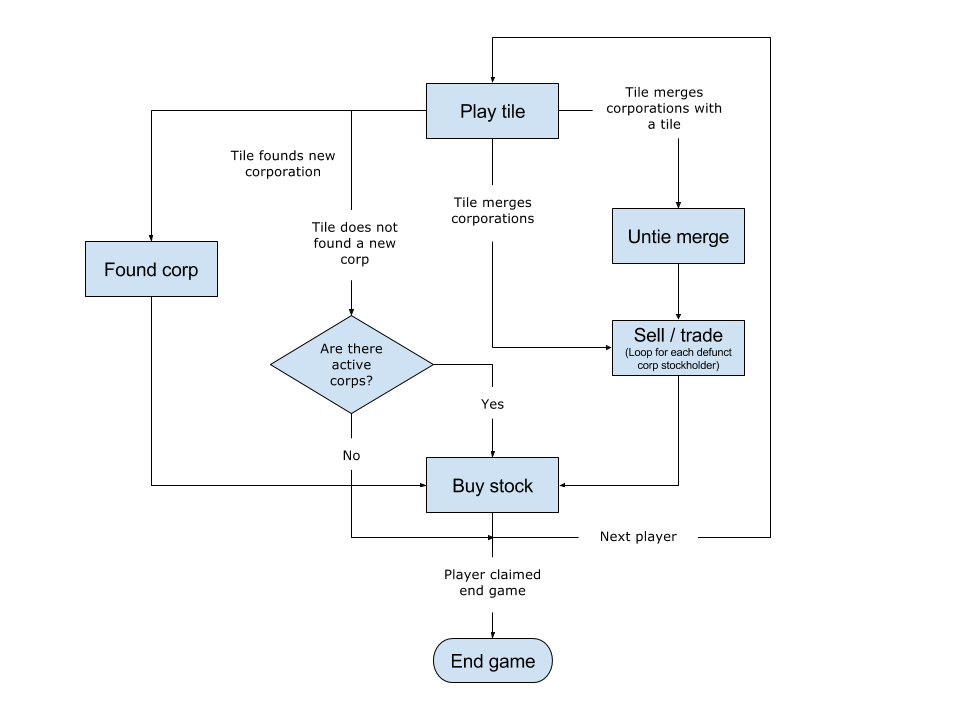
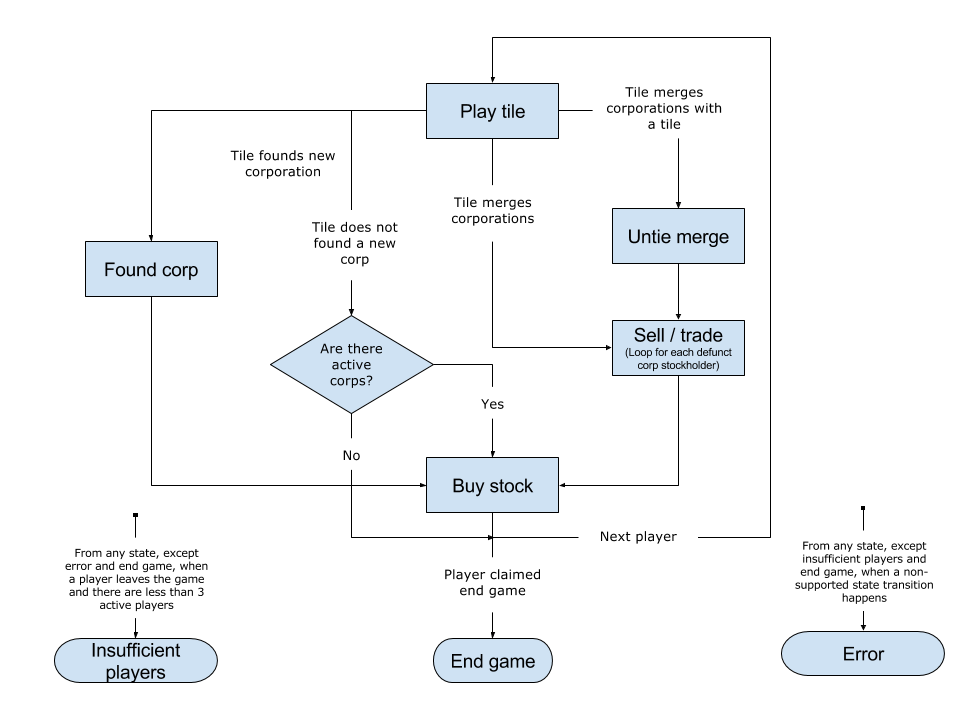
Added new state insufficient players

Changed region(s): [[0.8125, 0.7333, 1.0, 0.9472], [0.0625, 0.7639, 0.2188, 0.8556], [0.0312, 0.8861, 0.25, 0.9472]]

diff --git a/game.go b/game.go
@@ -332,7 +332,7 @@ func (g *Game) putUnincorporatedTile(tl interfaces.Tile) error {
 		g.state = g.state.ToBuyStock()
 		return nil
 	}
-	return g.nextRound()
+	return g.nextPlayer()
 }
 
 func (g *Game) existActiveCorporations() bool {
@@ -366,7 +366,7 @@ func (g *Game) FoundCorporation(corp interfaces.Corporation) error {
 	return nil
 }
 
-// Receive a free stock share from a rencently found corporation, if it has
+// Receive a free stock share from a recently founded corporation, if it has
 // remaining shares available
 // TODO this should trigger an event warning that no founder stock share will be given
 // of the founded corporation has no stock shares left
@@ -383,21 +383,6 @@ func (g *Game) growCorporation(corp interfaces.Corporation, tiles []interfaces.T
 	corp.Grow(len(tiles))
 }
 
-// Increases the number which specifies the current player.
-// Turn passes only to an active player.
-func (g *Game) nextPlayer() {
-	for {
-		g.currentPlayerNumber++
-		if g.currentPlayerNumber == len(g.players) {
-			g.currentPlayerNumber = 0
-			g.round++
-		}
-		if g.players[g.currentPlayerNumber].Active() {
-			return
-		}
-	}
-}
-
 // DeactivatePlayer gets the received player and marks it as inactive
 // because the player has left the game. All player's
 // assets are returned to its respective origin sets. If the deactivated player was in
@@ -412,12 +397,25 @@ func (g *Game) DeactivatePlayer(pl interfaces.Player) {
 			pl.RemoveShares(corp, pl.Shares(corp))
 		}
 	}
+	if len(g.activePlayers()) < 3 {
+		g.state = g.state.ToInsufficientPlayers()
+	}
 	for i := range g.players {
 		if g.players[i] == pl && g.currentPlayerNumber == i {
 			g.nextPlayer()
 			return
 		}
 	}
+}
+
+func (g *Game) activePlayers() []interfaces.Player {
+	var activePlayers []interfaces.Player
+	for i := range g.players {
+		if g.players[i].Active() {
+			activePlayers = append(activePlayers, g.players[i])
+		}
+	}
+	return activePlayers
 }
 
 // Round returns the current round number
@@ -445,7 +443,7 @@ func (g *Game) GameStateName() string {
 	return g.state.Name()
 }
 
-func (g *Game) nextRound() error {
+func (g *Game) nextPlayer() error {
 	if g.isLastRound {
 		g.state = g.state.ToEndGame()
 		return g.finish()
@@ -456,9 +454,23 @@ func (g *Game) nextRound() error {
 	if g.state.Name() != interfaces.PlayTileStateName {
 		g.state = g.state.ToPlayTile()
 	}
-	g.nextPlayer()
-
+	g.updateCurrentPlayerNumber()
 	return nil
+}
+
+// Increases the number which specifies the current player.
+// Turn passes only to an active player.
+func (g *Game) updateCurrentPlayerNumber() {
+	for {
+		g.currentPlayerNumber++
+		if g.currentPlayerNumber == len(g.players) {
+			g.currentPlayerNumber = 0
+			g.round++
+		}
+		if g.players[g.currentPlayerNumber].Active() {
+			return
+		}
+	}
 }
 
 // IsLastRound returns if the current round will be the last one or not

diff --git a/interfaces/fsm.go b/interfaces/fsm.go
@@ -9,15 +9,17 @@ type State interface {
 	ToSellTrade() State
 	ToBuyStock() State
 	ToEndGame() State
+	ToInsufficientPlayers() State
 }
 
 // State names
 const (
-	ErrorStateName      = "Error"
-	EndGameStateName    = "EndGame"
-	BuyStockStateName   = "BuyStock"
-	FoundCorpStateName  = "FoundCorp"
-	PlayTileStateName   = "PlayTile"
-	SellTradeStateName  = "SellTrade"
-	UntieMergeStateName = "UntieMerge"
+	ErrorStateName               = "Error"
+	EndGameStateName             = "EndGame"
+	BuyStockStateName            = "BuyStock"
+	FoundCorpStateName           = "FoundCorp"
+	PlayTileStateName            = "PlayTile"
+	SellTradeStateName           = "SellTrade"
+	UntieMergeStateName          = "UntieMerge"
+	InsufficientPlayersStateName = "InsufficientPlayers"
 )

diff --git a/fsm/untie_merge_test.go b/fsm/untie_merge_test.go
@@ -1,8 +1,9 @@
 package fsm
 
 import (
-	"github.com/svera/acquire/interfaces"
 	"testing"
+
+	"github.com/svera/acquire/interfaces"
 )
 
 func TestUntieMergeToPlayTile(t *testing.T) {
@@ -30,5 +31,13 @@ func TestUntieMergeToBuyStock(t *testing.T) {
 	state := &UntieMerge{}
 	if state.ToBuyStock().Name() != interfaces.ErrorStateName {
 		t.Errorf("Transition from UntieMerge to BuyStock must return not be valid")
+	}
+}
+
+func TestUntieMergeToInsufficientPlayers(t *testing.T) {
+	state := &UntieMerge{}
+
+	if state.ToInsufficientPlayers().Name() != interfaces.InsufficientPlayersStateName {
+		t.Errorf("Transition from UntieMerge to InsufficientPlayers must be valid")
 	}
 }

diff --git a/fsm/found_corp_test.go b/fsm/found_corp_test.go
@@ -1,8 +1,9 @@
 package fsm
 
 import (
-	"github.com/svera/acquire/interfaces"
 	"testing"
+
+	"github.com/svera/acquire/interfaces"
 )
 
 func TestFoundCorpToPlayTile(t *testing.T) {
@@ -30,5 +31,13 @@ func TestFoundCorpToBuyStock(t *testing.T) {
 	state := &FoundCorp{}
 	if state.ToBuyStock().Name() != interfaces.BuyStockStateName {
 		t.Errorf("Transition from FoundCorp to BuyStock must be valid")
+	}
+}
+
+func TestFoundCorpToInsufficientPlayers(t *testing.T) {
+	state := &FoundCorp{}
+
+	if state.ToInsufficientPlayers().Name() != interfaces.InsufficientPlayersStateName {
+		t.Errorf("Transition from FoundCorp to InsufficientPlayers must be valid")
 	}
 }

diff --git a/fsm/sell_trade_test.go b/fsm/sell_trade_test.go
@@ -1,8 +1,9 @@
 package fsm
 
 import (
-	"github.com/svera/acquire/interfaces"
 	"testing"
+
+	"github.com/svera/acquire/interfaces"
 )
 
 func TestSellTradeToPlayTile(t *testing.T) {
@@ -30,5 +31,13 @@ func TestSellTradeToBuyStock(t *testing.T) {
 	state := &SellTrade{}
 	if state.ToBuyStock().Name() != interfaces.BuyStockStateName {
 		t.Errorf("Transition from SellTrade to BuyStock must be valid")
+	}
+}
+
+func TestSellTradeToInsufficientPlayers(t *testing.T) {
+	state := &SellTrade{}
+
+	if state.ToInsufficientPlayers().Name() != interfaces.InsufficientPlayersStateName {
+		t.Errorf("Transition from SellTrade to InsufficientPlayers must be valid")
 	}
 }

diff --git a/fsm/play_tile_test.go b/fsm/play_tile_test.go
@@ -1,8 +1,9 @@
 package fsm
 
 import (
-	"github.com/svera/acquire/interfaces"
 	"testing"
+
+	"github.com/svera/acquire/interfaces"
 )
 
 func TestPlayTileToSellTrade(t *testing.T) {
@@ -30,5 +31,13 @@ func TestPlayTileToBuyStock(t *testing.T) {
 	state := &PlayTile{}
 	if state.ToBuyStock().Name() != interfaces.BuyStockStateName {
 		t.Errorf("Transition from PlayTile to BuyStock must be valid")
+	}
+}
+
+func TestPlayTileToInsufficientPlayers(t *testing.T) {
+	state := &PlayTile{}
+
+	if state.ToInsufficientPlayers().Name() != interfaces.InsufficientPlayersStateName {
+		t.Errorf("Transition from PlayTile to InsufficientPlayers must be valid")
 	}
 }

diff --git a/fsm/end_game_test.go b/fsm/end_game_test.go
@@ -1,8 +1,9 @@
 package fsm
 
 import (
-	"github.com/svera/acquire/interfaces"
 	"testing"
+
+	"github.com/svera/acquire/interfaces"
 )
 
 func TestEndGameToPlayTile(t *testing.T) {
@@ -37,5 +38,13 @@ func TestEndGameToBuyStock(t *testing.T) {
 	state := &EndGame{}
 	if state.ToBuyStock().Name() != interfaces.ErrorStateName {
 		t.Errorf("Transition from EndGame to BuyStock must not be possible")
+	}
+}
+
+func TestEndGameToInsufficientPlayers(t *testing.T) {
+	state := &EndGame{}
+
+	if state.ToInsufficientPlayers().Name() != interfaces.ErrorStateName {
+		t.Errorf("Transition from EndGame to InsufficientPlayers must not be possible")
 	}
 }

diff --git a/fsm/buy_stock_test.go b/fsm/buy_stock_test.go
@@ -1,8 +1,9 @@
 package fsm
 
 import (
-	"github.com/svera/acquire/interfaces"
 	"testing"
+
+	"github.com/svera/acquire/interfaces"
 )
 
 func TestBuyStockToPlayTile(t *testing.T) {
@@ -39,5 +40,13 @@ func TestBuyStockToEndGame(t *testing.T) {
 
 	if state.ToEndGame().Name() != interfaces.EndGameStateName {
 		t.Errorf("Transition from BuyStock to EndGame must be valid")
+	}
+}
+
+func TestBuyStockToInsufficientPlayers(t *testing.T) {
+	state := &BuyStock{}
+
+	if state.ToInsufficientPlayers().Name() != interfaces.InsufficientPlayersStateName {
+		t.Errorf("Transition from BuyStock to InsufficientPlayers must be valid")
 	}
 }

diff --git a/game_test.go b/game_test.go
@@ -528,6 +528,9 @@ func TestDeactivatePlayer(t *testing.T) {
 	if players[1].Cash() != 0 {
 		t.Errorf("Deactivated player expected to have no money, got %d", players[1].Cash())
 	}
+	if game.state.(*mocks.State).TimesCalled["ToInsufficientPlayers"] != 1 {
+		t.Errorf("Game must change its state to InsufficientPlayers as it has less than 3 active players")
+	}
 }
 
 func setup() ([]interfaces.Player, Optional) {

diff --git a/fsm/play_tile.go b/fsm/play_tile.go
@@ -33,3 +33,8 @@ func (s *PlayTile) ToUntieMerge() interfaces.State {
 func (s *PlayTile) ToBuyStock() interfaces.State {
 	return &BuyStock{}
 }
+
+// ToInsufficientPlayers returns an InsufficientPlayers instance because it's an allowed state transition
+func (s *PlayTile) ToInsufficientPlayers() interfaces.State {
+	return &InsufficientPlayers{}
+}

diff --git a/fsm/buy_stock.go b/fsm/buy_stock.go
@@ -23,3 +23,8 @@ func (s *BuyStock) ToPlayTile() interfaces.State {
 func (s *BuyStock) ToEndGame() interfaces.State {
 	return &EndGame{}
 }
+
+// ToInsufficientPlayers returns an InsufficientPlayers instance because it's an allowed state transition
+func (s *BuyStock) ToInsufficientPlayers() interfaces.State {
+	return &InsufficientPlayers{}
+}

diff --git a/fsm/insufficient_players.go b/fsm/insufficient_players.go
@@ -1,0 +1,15 @@
+package fsm
+
+import (
+	"github.com/svera/acquire/interfaces"
+)
+
+// InsufficientPlayers is a struct representing a finite state machine's state
+type InsufficientPlayers struct {
+	ErrorState
+}
+
+// Name returns state's name
+func (s *InsufficientPlayers) Name() string {
+	return interfaces.InsufficientPlayersStateName
+}
